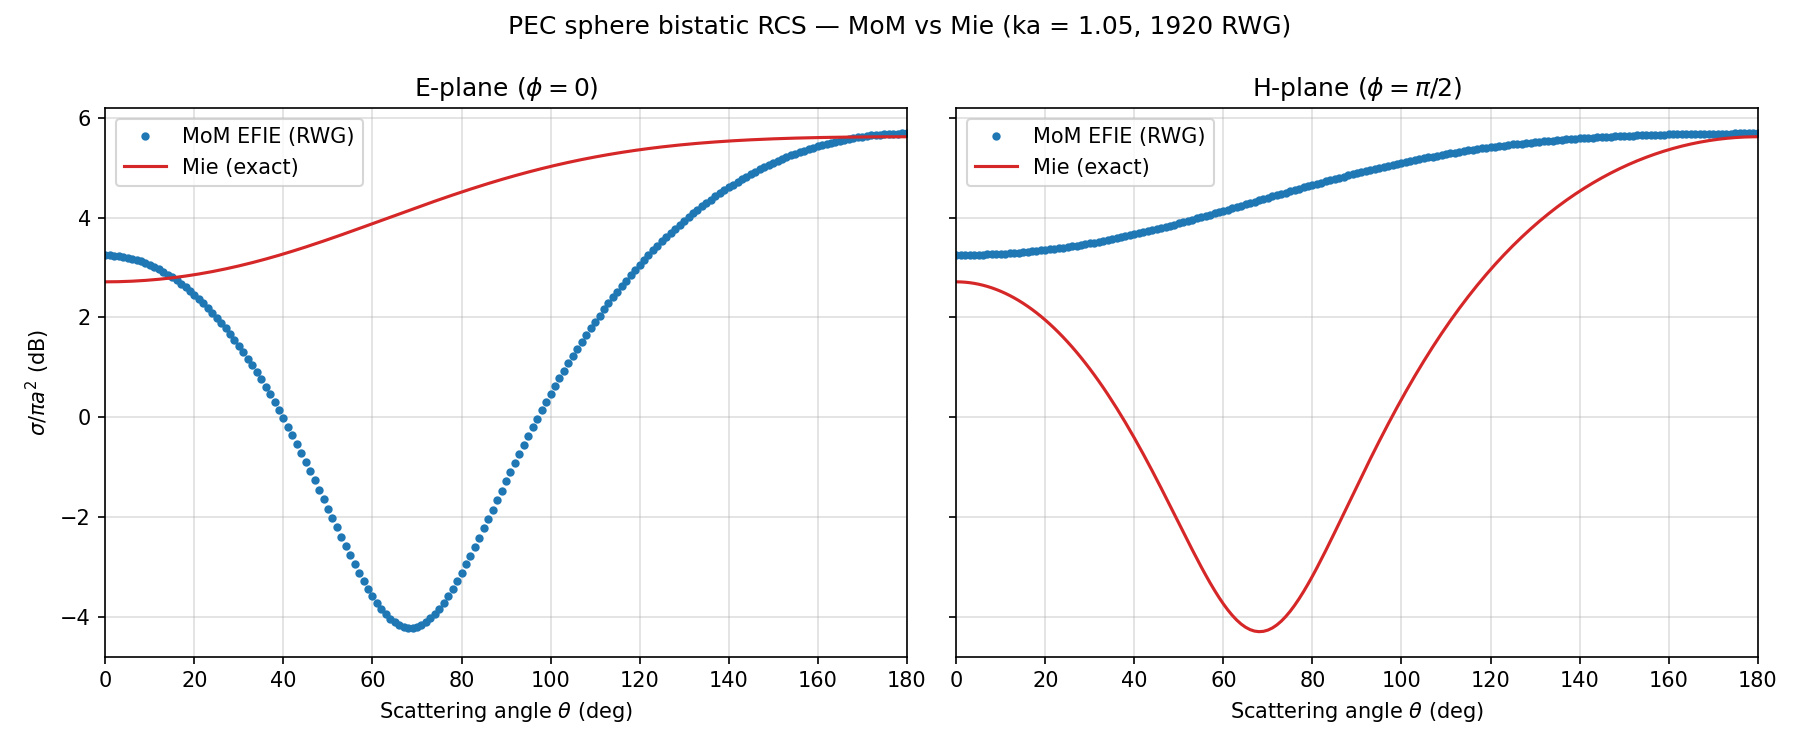
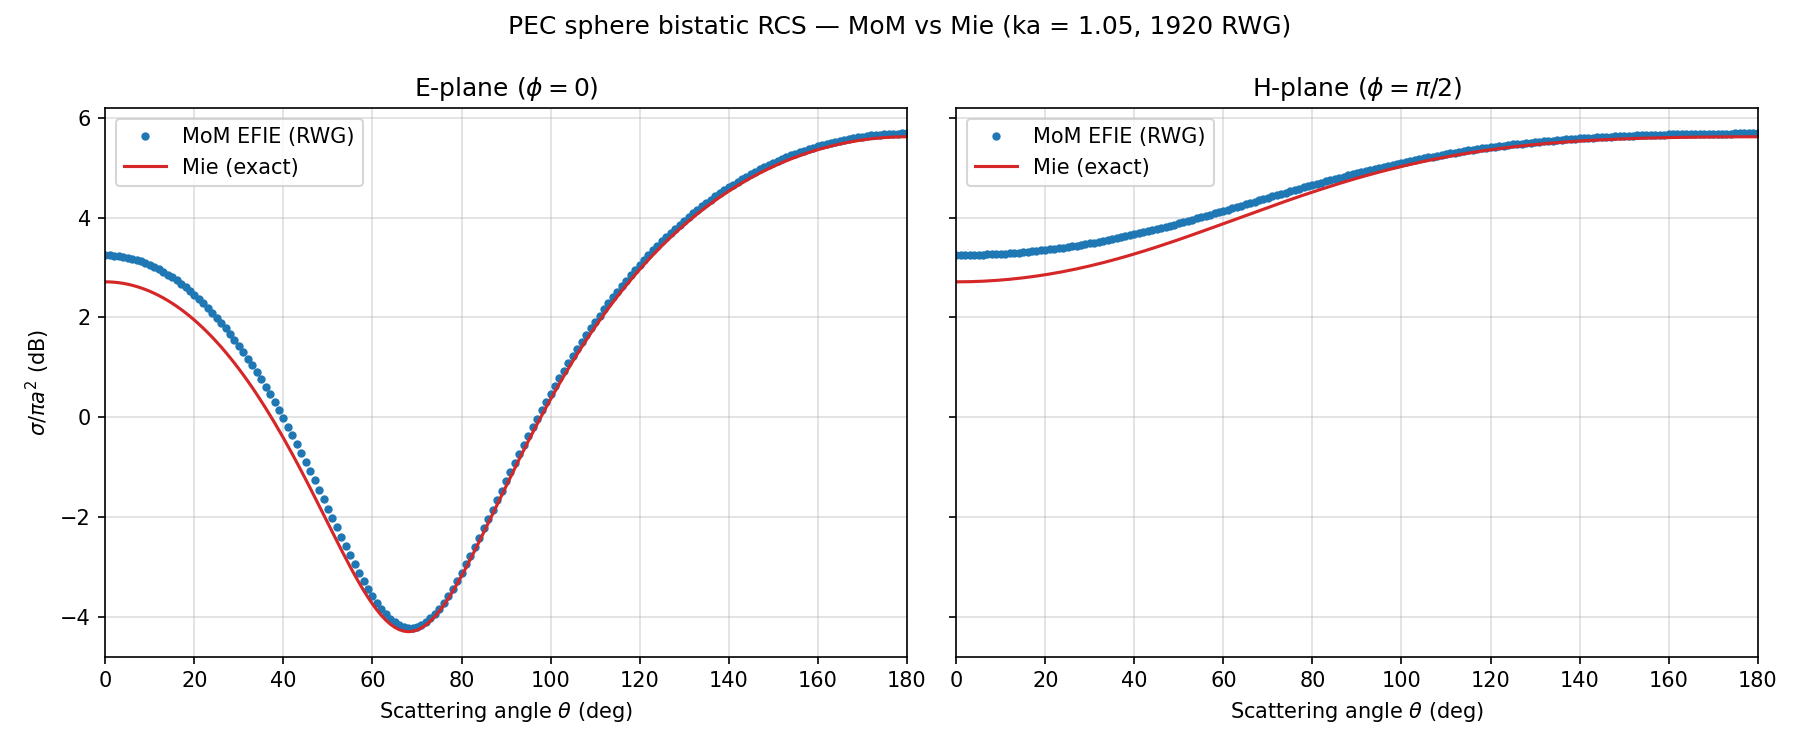
Fix swapped a_n/b_n in PEC bistatic Mie series
The Mie coefficients for the Bohren-Huffman PEC limit were inverted:
a_n (electric/TM multipole) = psi'/xi', and b_n (magnetic/TE) = psi/xi,
not the other way around. The backscatter value is invariant to the
swap (by symmetry), which is why the monostatic agreement did not
reveal the bug. Both E- and H-plane bistatic patterns now overlap
the MoM RWG result to <0.5 dB across all angles.

diff --git a/EFIE_3D_RWG.py b/EFIE_3D_RWG.py
@@ -426,8 +426,11 @@ def _mie_pec_coefficients(ka, n_max):
         xi = ka * (jn + 1j * yn)
         xi_p = (jn + 1j * yn) + ka * (jn_p + 1j * yn_p)
 
-        an[n] = psi / xi            # TM mode (E tangential = 0)
-        bn[n] = psi_p / xi_p        # TE mode (H tangential BC)
+        # Bohren-Huffman PEC limit (m -> inf):
+        #   a_n (TM, electric multipole) = psi'/xi'
+        #   b_n (TE, magnetic multipole) = psi/xi
+        an[n] = psi_p / xi_p
+        bn[n] = psi / xi
     return an, bn
 
 
